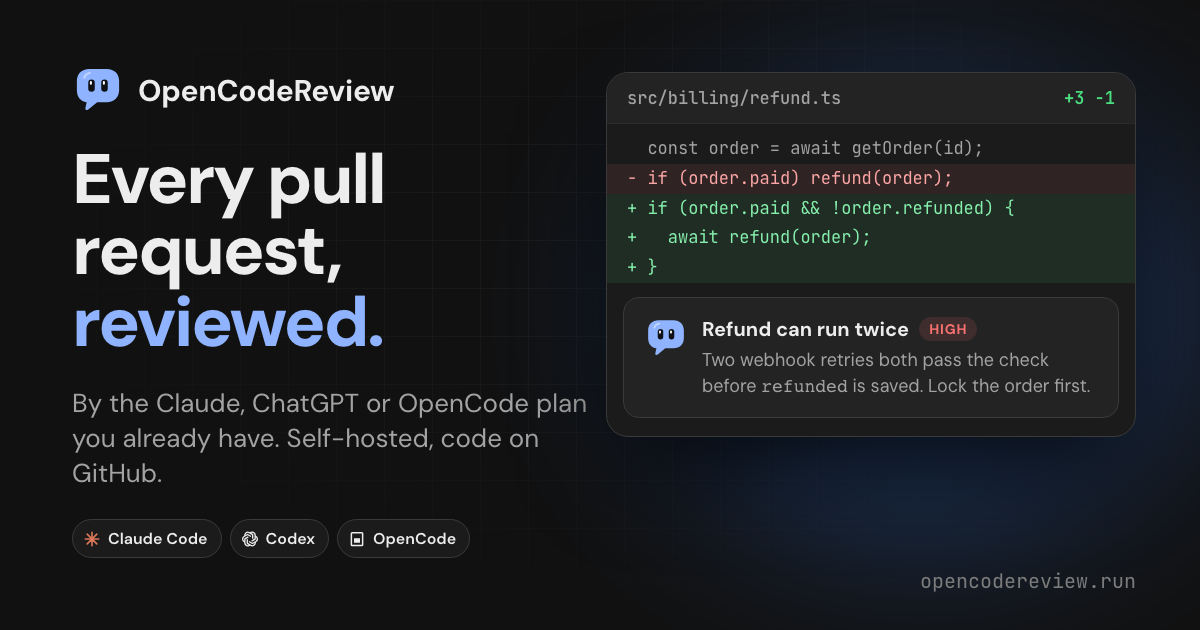
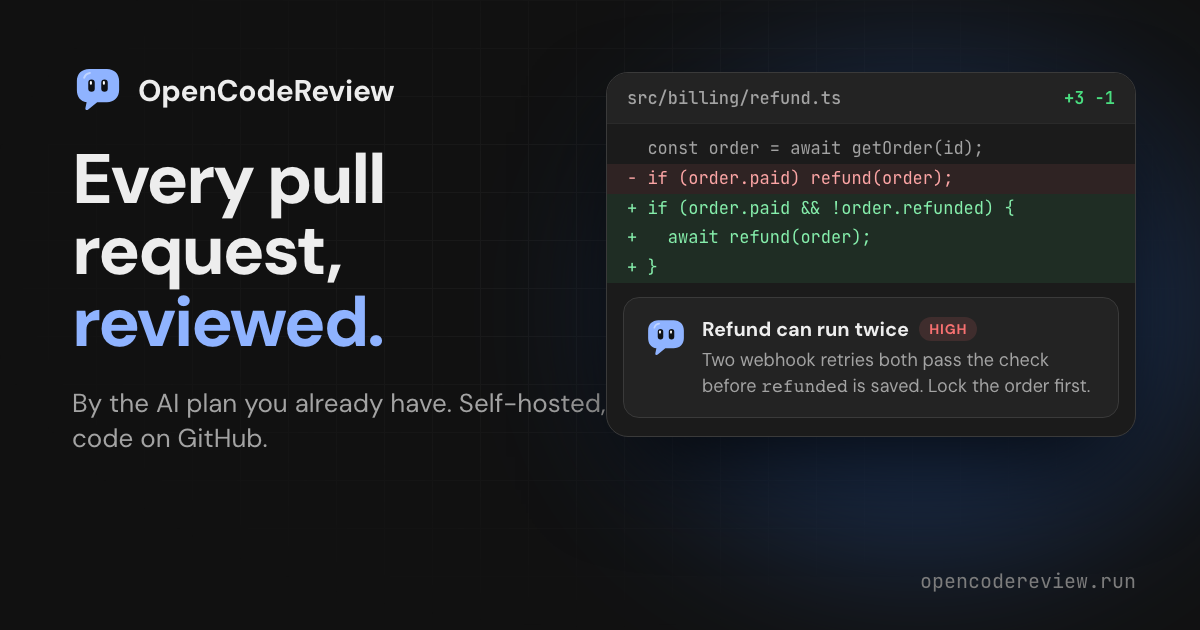
docs(site): keep provider names out of the share image and its descriptions

Changed region(s): [[0.0617, 0.6032, 0.5242, 0.7841], [0.0617, 0.8444, 0.4008, 0.8746]]

diff --git a/site/index.html b/site/index.html
@@ -13,7 +13,7 @@
   <meta property="og:locale" content="en_US">
   <meta property="og:url" content="https://opencodereview.run/">
   <meta property="og:title" content="OpenCodeReview — a code reviewer for people who ship alone">
-  <meta property="og:description" content="Every pull request reviewed by the Claude, ChatGPT or OpenCode plan you already have. Self-hosted, with the code on GitHub.">
+  <meta property="og:description" content="Every pull request reviewed by the AI plan you already have. Self-hosted, with the code on GitHub.">
   <meta property="og:image" content="https://opencodereview.run/og.png?v=3">
   <meta property="og:image:type" content="image/png">
   <meta property="og:image:width" content="1200">
@@ -21,7 +21,7 @@
   <meta property="og:image:alt" content="OpenCodeReview: every pull request, reviewed. A diff with a high-severity review comment from the OpenCodeReview mascot.">
   <meta name="twitter:card" content="summary_large_image">
   <meta name="twitter:title" content="OpenCodeReview — a code reviewer for people who ship alone">
-  <meta name="twitter:description" content="Every pull request reviewed by the Claude, ChatGPT or OpenCode plan you already have. Self-hosted, with the code on GitHub.">
+  <meta name="twitter:description" content="Every pull request reviewed by the AI plan you already have. Self-hosted, with the code on GitHub.">
   <meta name="twitter:image" content="https://opencodereview.run/og.png?v=3">
   <meta name="twitter:image:alt" content="OpenCodeReview: every pull request, reviewed. A diff with a high-severity review comment from the OpenCodeReview mascot.">
   <link rel="icon" href="favicon.ico" sizes="32x32">

diff --git a/scripts/og/og.html b/scripts/og/og.html
@@ -5,9 +5,6 @@
   .glow.a { width: 560px; height: 460px; right: 0; top: 80px; background: #3b82f6; opacity: .32; }
   .copy { position: absolute; left: 72px; top: 64px; width: 540px; display: flex; flex-direction: column; gap: 28px; }
   .title { font-size: 70px; }
-  .chips { gap: 8px; }
-  .chips .chip { font-size: 16px; padding: 8px 13px 8px 10px; gap: 7px; }
-  .chips .chip svg { width: 18px; height: 18px; }
   .card { position: absolute; right: 64px; top: 72px; width: 530px; border-radius: 22px; border: 1px solid var(--line-strong); background: var(--surface); box-shadow: 0 40px 100px -20px #000d; overflow: hidden; }
   .file { display: flex; justify-content: space-between; padding: 14px 20px; border-bottom: 1px solid var(--line); font: 500 17px "JetBrains Mono", monospace; color: var(--fg-muted); background: var(--surface-2); }
   .file b { color: var(--success); font-weight: 600; }
@@ -30,12 +27,7 @@
   <div class="copy">
     <div class="brand"><svg><use href="#bubble" /></svg>OpenCodeReview</div>
     <h1 class="title">Every pull request,<span>reviewed.</span></h1>
-    <p class="sub">By the Claude, ChatGPT or OpenCode plan you already have. Self-hosted, code on GitHub.</p>
-    <div class="chips">
-      <span class="chip"><svg style="color:var(--claude)"><use href="#claude" /></svg>Claude Code</span>
-      <span class="chip"><svg><use href="#codex" /></svg>Codex</span>
-      <span class="chip"><svg><use href="#opencode" /></svg>OpenCode</span>
-    </div>
+    <p class="sub">By the AI plan you already have. Self-hosted, code on GitHub.</p>
   </div>
   <div class="card">
     <div class="file"><span>src/billing/refund.ts</span><b>+3 −1</b></div>

diff --git a/scripts/og/og.css b/scripts/og/og.css
@@ -24,7 +24,6 @@
   --success: #4ade80;
   --warning: #f5a524;
   --danger: #f87171;
-  --claude: #d97757;
 }
 * {
   box-sizing: border-box;
@@ -83,26 +82,6 @@ body {
   color: var(--fg-muted);
   font-size: 26px;
   line-height: 1.35;
-}
-.chips {
-  display: flex;
-  gap: 10px;
-}
-.chip {
-  display: inline-flex;
-  align-items: center;
-  gap: 9px;
-  padding: 9px 16px 9px 12px;
-  border: 1px solid var(--line-strong);
-  border-radius: 999px;
-  background: var(--surface);
-  font-size: 19px;
-  font-weight: 600;
-  color: var(--fg);
-}
-.chip svg {
-  width: 22px;
-  height: 22px;
 }
 .url {
   font-family: "JetBrains Mono", monospace;
